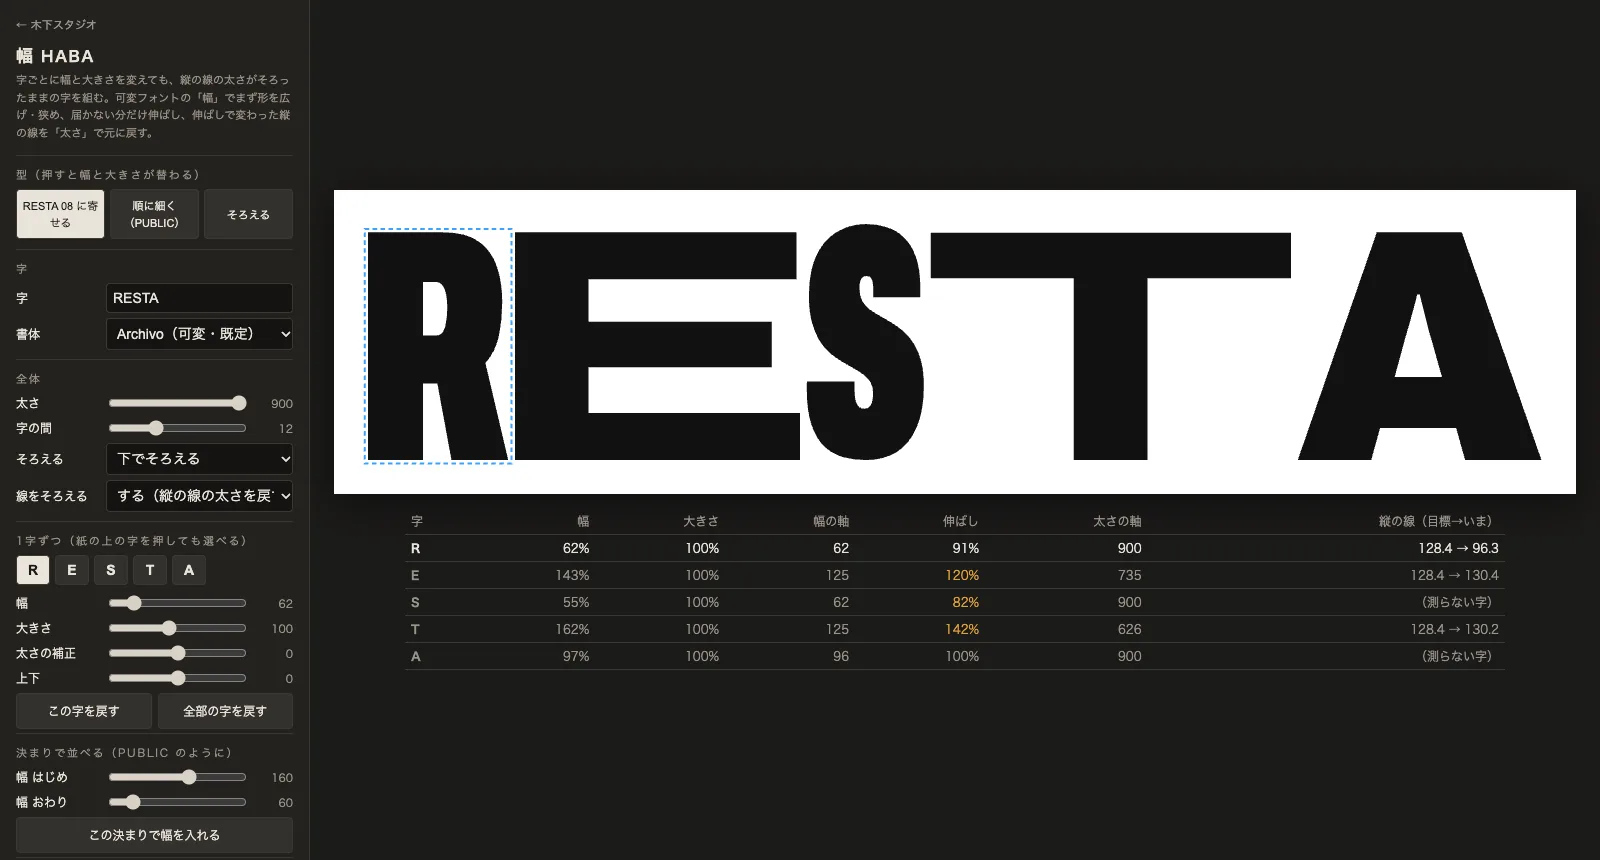
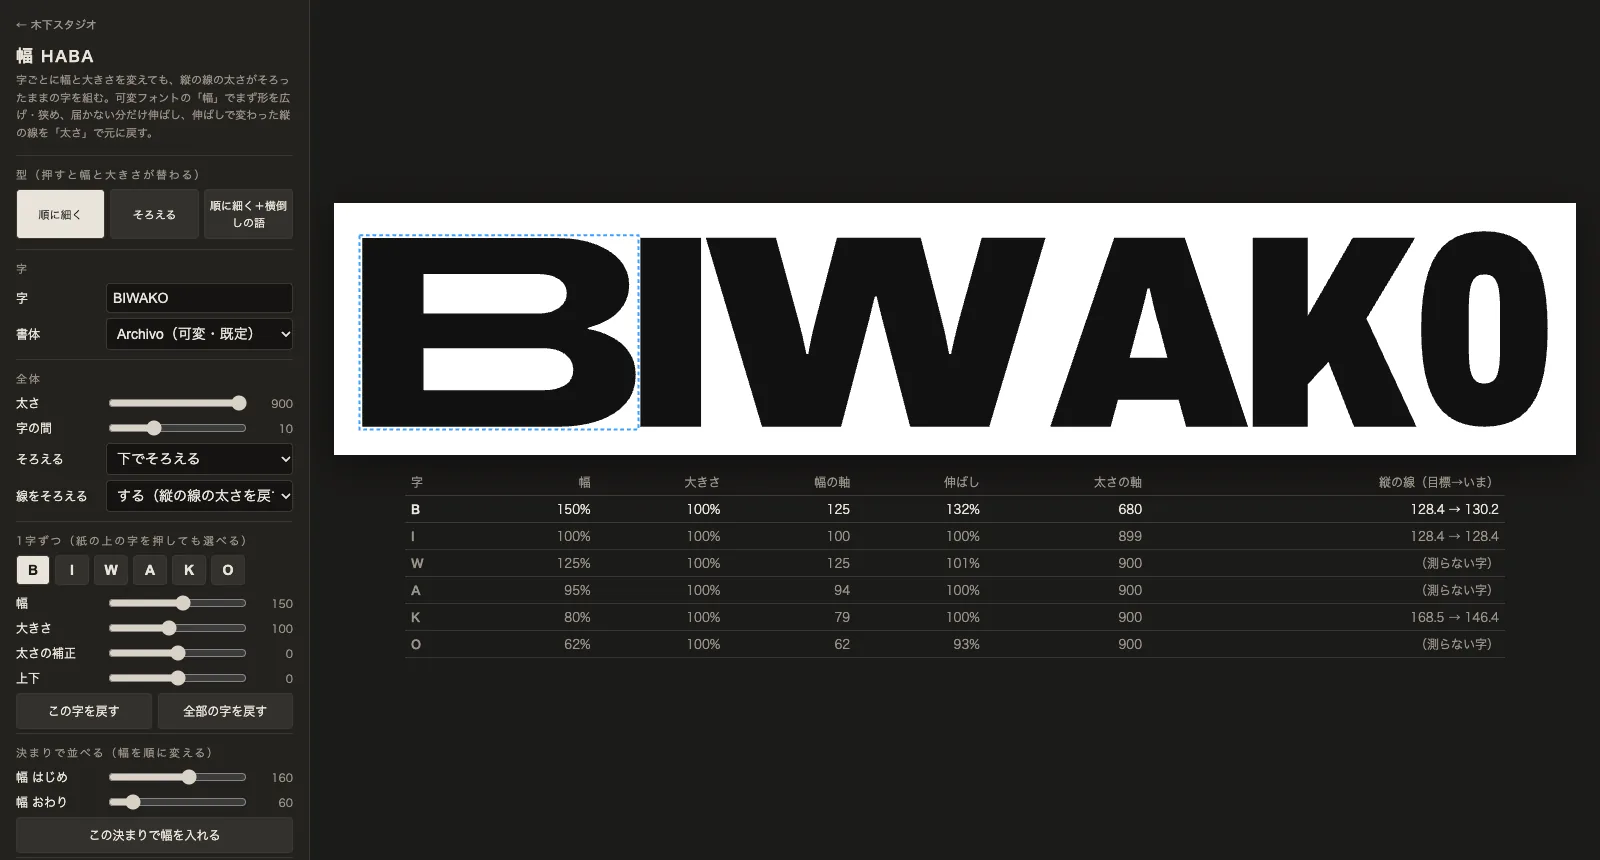
幅 HABA・裁 TACHI：サムネと既定の字を進行中の案件と関係のない字に（HABA＝BIWAKO・TACHI＝紙を／はさみで切る）／HABA に「外をそろえる」（横倒しの語・黒ベタの試験・ルール）を足す

diff --git a/haba/index.html b/haba/index.html
@@ -8,13 +8,12 @@
 <meta property="og:description" content="字ごとに幅を変えても、縦の線の太さがそろう。引き伸ばした字に見えない字を組む道具。">
 <meta property="og:url" content="https://kinoshita.studio/haba/">
 <meta property="og:image" content="https://kinoshita.studio/assets/img/img-ui-haba.webp">
-<!-- 2026-11-07 木下：RESTA のロゴ案（Archivo Black を字ごとに引き伸ばした帯）を「プロが見ても分からないレベルで」作字にしたい。
-     「パスを一個一個調整するのはハードルが高すぎる。スライダーで調整できるような道具は？」「道具作って」。
+<!-- 2026-11-07 木下：字ごとに幅を変えた組みを「パスを一個一個調整せず、スライダーで」作字の下書きにしたい。
      引き伸ばすと縦の線だけ太く（細く）なり、1語の中で線の太さがばらばらになる＝プロが一目で気づく所。
      仕組み：1 可変フォントの「幅」の軸で、まず形そのものを広げる・狭める
              2 軸で届かない分だけ伸ばす
              3 伸ばしで変わった縦の線の太さを、「太さ」の軸で元の太さへ戻す（測って合わせる）
-     書体の既定＝Archivo（可変・SIL OFL 1.1・OFL-Archivo.txt）。Archivo の 900 は Archivo Black とほぼ同じ形。 -->
+     書体の既定＝Archivo（可変・SIL OFL 1.1・OFL-Archivo.txt）。 -->
 <style>
 :root{--bg:#1b1a19;--panel:#24221f;--line:#3a3733;--tx:#e9e4da;--sub:#9a9388;--ac:#e9e4da;--warn:#e0a23a}
 *{box-sizing:border-box}
@@ -53,7 +52,7 @@ canvas#cv{touch-action:manipulation}
   <p class="lead">字ごとに幅と大きさを変えても、縦の線の太さがそろったままの字を組む。可変フォントの「幅」でまず形を広げ・狭め、届かない分だけ伸ばし、伸ばしで変わった縦の線を「太さ」で元に戻す。</p>
   <div class="grp"><div class="t">型（押すと幅と大きさが替わる）</div><div class="presets" id="presets"></div></div>
   <div class="grp"><div class="t">字</div>
-    <label>字<input type="text" id="txt" value="RESTA" style="grid-column:2/4"></label>
+    <label>字<input type="text" id="txt" value="BIWAKO" style="grid-column:2/4"></label>
     <label>書体<select id="font" style="grid-column:2/4"><option value="archivo">Archivo（可変・既定）</option><option value="file">書体を読む…</option></select></label>
     <input type="file" id="fontfile" accept=".ttf,.otf,.woff,.woff2" hidden>
   </div>
@@ -71,10 +70,16 @@ canvas#cv{touch-action:manipulation}
     <label>上下<input type="range" id="ly" min="-60" max="60" value="0"><span class="v"></span></label>
     <div class="row" style="margin-top:2px"><button id="lreset">この字を戻す</button><button id="allreset">全部の字を戻す</button></div>
   </div>
-  <div class="grp"><div class="t">決まりで並べる（PUBLIC のように）</div>
+  <div class="grp"><div class="t">決まりで並べる（幅を順に変える）</div>
     <label>幅 はじめ<input type="range" id="rw0" min="30" max="250" value="160"><span class="v"></span></label>
     <label>幅 おわり<input type="range" id="rw1" min="30" max="250" value="60"><span class="v"></span></label>
     <div class="row" style="margin-top:2px"><button id="rule">この決まりで幅を入れる</button></div>
+  </div>
+  <div class="grp"><div class="t">外をそろえる</div>
+    <label>横倒しの語<input type="text" id="side" value="" placeholder="例：SHIGA・2026・NO.1" style="grid-column:2/4"></label>
+    <label>置く場所<select id="sidePos" style="grid-column:2/4"><option value="left">左（読みのはじめ）</option><option value="right">右（読みのおわり）</option></select></label>
+    <div class="row" style="margin-top:2px"><button id="btest">黒ベタの試験（48・24・16px）</button></div>
+    <p class="lead" style="margin:8px 0 0">中はそろえない・外はそろえる。<br>① 幅と太さは字ごとにばらばらでいい。上と下の線はそろえる（「大きさ」は 100 のまま）<br>② 幅違いは伸ばさない＝この道具が縦の線を戻す。「伸ばし」が大きい字は作字で描き分ける<br>③ 読む順番は崩さない<br>④ 欠けた所は小さい語を横倒しにして閉じる（字の高さぴったりに伸び縮みする）<br>⑤ 黒1色・質感なしで、16px でもその会社だと分かるか<br>⑥ その形はブランドにとって本当か</p>
   </div>
   <div class="grp"><div class="t">色・地・下敷き</div>
     <label>字の色<input type="color" id="ink" value="#111111" style="grid-column:2/4;height:30px;padding:2px"></label>
@@ -89,7 +94,7 @@ canvas#cv{touch-action:manipulation}
   <p id="msg"></p>
   <p class="lead" style="margin-top:12px">字を横に伸ばすと縦の線だけ太くなり、狭めると細くなる。1語の中で縦の線の太さがばらばらだと、引き伸ばした字だと一目で分かる。HABA は、幅の軸で形を変え、届かない分だけ伸ばし、伸ばしで変わった縦の線の太さを測って、太さの軸で元の字の太さに戻す。下の表の「伸ばし」が大きい字ほど、幅の軸だけでは足りていない。比べるときは「線をそろえる：しない」に切り替える。いまのロゴの SVG を読むと、下敷きに敷いて重ねて見られる。</p>
 </div>
-<div id="stage"><canvas id="cv"></canvas><div id="info"></div></div>
+<div id="stage"><canvas id="cv"></canvas><div id="btestbox" style="display:none;width:100%;max-width:1100px;background:#fff;border-radius:4px;padding:12px 14px;color:#555;font-size:11px"></div><div id="info"></div></div>
 <script type="module">
 import * as fontkit from 'https://esm.sh/fontkit@2.0.4';
 const $=id=>document.getElementById(id);
@@ -97,7 +102,6 @@ const v=id=>+$(id).value;
 const cv=$('cv'),ctx=cv.getContext('2d');
 let FONT=null, FONTNAME='Archivo', AX={}, L=[], SEL=0, UNDER=null, LAST=null;
 const STEMMED=/[BDEFHIJKLMNPRTUbdhijklmnpqrtuＢ-Ｚ]/;   // 縦の線で太さを測れる字
-const M08=[0.62,1.43,0.55,1.62,0.97];                   // RESTA 08 の幅（いまの Archivo Black を伸ばした倍率）
 // ── 書体
 async function loadFont(buf,name){
   const f=fontkit.create(new Uint8Array(buf)); FONT=f; FONTNAME=name||f.familyName; AX=f.variationAxes||{}; CACHE.clear();
@@ -174,12 +178,27 @@ function layout(){
     items.push({ch:cs[i],r,sc,p,w:(r.g.bb.x1-r.g.bb.x0)*r.sx*sc,h:(r.g.bb.y1-r.g.bb.y0)*sc});
   }
   const gap=v('gap'), maxH=Math.max(...items.map(t=>t.h)), M=60;
-  let x=M; for(const t of items){t.x=x;x+=t.w+gap} const W=Math.ceil(x-gap+M), H=Math.ceil(maxH+2*M+120);
+  // 横倒しの語：字の高さ maxH ぴったりの長さにして、四角の欠けを閉じる。いちばん狭い幅・同じ太さ
+  const side=sideLayout(maxH), sidePos=$('sidePos').value;
+  let x=M; if(side&&sidePos==='left'){side.x=M;x=M+side.thick+gap}
+  for(const t of items){t.x=x;x+=t.w+gap}
+  if(side&&sidePos==='right'){side.x=x;x+=side.thick+gap}
+  const W=Math.ceil(x-gap+M), H=Math.ceil(maxH+2*M+120);
+  if(side)side.place(M,maxH);
   const al=$('align').value;
   for(const t of items){const top=al==='top'?M:al==='middle'?M+(maxH-t.h)/2:M+maxH-t.h; t.yTop=top-t.p.y*t.sc*2;
     const b=t.r.g.bb, sx=t.r.sx, sc=t.sc, X=t.x, Y=t.yTop;
     t.T=(px,py)=>[X+(px-b.x0)*sc*sx, Y+(b.y1-py)*sc]}
-  return {items,W,H:Math.ceil(maxH+2*M),maxH};
+  return {items,W,H:Math.ceil(maxH+2*M),maxH,side};
+}
+function sideLayout(maxH){
+  const cs=[...$('side').value].filter(c=>c!==' '); if(!cs.length||!FONT)return null;
+  const wt=v('wght'), wd=AX.wdth?AX.wdth.min:100, cap=(FONT.capHeight||700), sp=cap*0.06;
+  const gs=cs.map(ch=>glyph(ch,wt,wd)); let u=0; const at=[];
+  gs.forEach(g=>{at.push(u);u+=(g.bb.x1-g.bb.x0)+sp}); const len=u-sp, ss=maxH/len;
+  const o={gs,thick:cap*ss,x:0};
+  o.place=(M,mh)=>{o.T=gs.map((g,i)=>(px,py)=>[o.x+(cap-py)*ss, M+mh-(at[i]+(px-g.bb.x0))*ss])};   // 下から上へ読む
+  return o;
 }
 function draw(g,lay,q,paper,showUnder){
   g.setTransform(q,0,0,q,0,0); g.clearRect(0,0,lay.W,lay.H);
@@ -187,6 +206,7 @@ function draw(g,lay,q,paper,showUnder){
   if(showUnder&&UNDER&&v('uop')>0){g.globalAlpha=v('uop')/100;const M=60,w=lay.W-2*M,h=lay.maxH;g.drawImage(UNDER,M,M,w,h);g.globalAlpha=1}
   g.fillStyle=$('ink').value;
   for(const t of lay.items)g.fill(toPath(t.r.g.cmds,t.T),'nonzero');
+  if(lay.side)lay.side.gs.forEach((sg2,i)=>g.fill(toPath(sg2.cmds,lay.side.T[i]),'nonzero'));
 }
 let raf=0;
 function render(){cancelAnimationFrame(raf);raf=requestAnimationFrame(()=>{
@@ -200,6 +220,7 @@ function render(){cancelAnimationFrame(raf);raf=requestAnimationFrame(()=>{
   lay.items.forEach((t,i)=>{const r=t.r,ext=Math.abs(r.sx-1)>.15;
     h+=`<tr class="${i===SEL?'sel':''}"><td><b>${t.ch}</b></td><td>${t.p.w}%</td><td>${t.p.s}%</td><td>${AX.wdth?r.wd.toFixed(0):'—'}</td><td class="${ext?'w':''}">${(r.sx*100).toFixed(0)}%</td><td>${AX.wght?r.wt.toFixed(0):'—'}</td><td>${r.fix?`${(r.want*t.sc).toFixed(1)} → ${(r.stemNow*t.sc).toFixed(1)}`:'（測らない字）'}</td></tr>`});
   $('info').innerHTML=h+'</table>';
+  if($('btestbox').style.display==='block')blackTest();   // 試験を開いたままなら一緒に描き直す
   ['wght','gap','uop','lw','ls','lt','ly','rw0','rw1'].forEach(k=>{const e=$(k).parentElement.querySelector('.v');if(e)e.textContent=$(k).value});
   chipsRender();
 })}
@@ -213,21 +234,30 @@ $('allreset').onclick=()=>{L=L.map(()=>({w:100,s:100,t:0,y:0}));pick(SEL)};
 $('rule').onclick=()=>{ensureL();const n=L.length;L.forEach((p,i)=>p.w=Math.round(v('rw0')+(v('rw1')-v('rw0'))*(n>1?i/(n-1):0)));pick(SEL)};
 ['wght','gap','align','fix','ink','paper','uop','rw0','rw1'].forEach(k=>$(k).oninput=render);
 $('txt').oninput=()=>{ensureL();render()};
+$('side').oninput=render;$('sidePos').oninput=render;
+// 黒ベタの試験：字の色・地・下敷きを無視して、黒1色を白地に 48・24・16px で見る（もう一度押すと閉じる）
+function blackTest(){const box=$('btestbox');const lay=layout();if(!lay)return;
+  const q0=lay.maxH, out=[48,24,16].map(h=>{const q=h/(lay.maxH+120)*1.6, c=document.createElement('canvas'), d=devicePixelRatio||1;
+    const sc=h/q0; c.width=Math.ceil(lay.W*sc*d);c.height=Math.ceil(lay.H*sc*d);c.style.width=(lay.W*sc)+'px';c.style.height=(lay.H*sc)+'px';
+    const g=c.getContext('2d');const ink=$('ink').value;$('ink').value='#111111';draw(g,lay,sc*d,'#ffffff',false);$('ink').value=ink;return [h,c]});
+  box.innerHTML='';out.forEach(([h,c])=>{const w=document.createElement('div');w.style.cssText='display:inline-block;margin:0 18px 6px 0;vertical-align:bottom;text-align:center';w.appendChild(c);const l=document.createElement('div');l.textContent=`字の高さ ${h}px`;w.appendChild(l);box.appendChild(w)});
+  const n=document.createElement('div');n.style.marginTop='6px';n.textContent='素材と色をはがして黒1色。いちばん小さくても、この会社だと分かるか（横倒しの小さい語は小さい版では外してよい）';box.appendChild(n);box.style.display='block';msg('黒ベタの試験：黒1色・白地で 48・24・16px')}
+$('btest').onclick=()=>{const b=$('btestbox');if(b.style.display==='block'){b.style.display='none';return}blackTest()};
 // ── 型
 const PRESETS=[
-  {name:'RESTA 08 に寄せる',txt:'RESTA',w:M08.map(m=>Math.round(m*100)),s:[100,100,100,100,100],gap:12},
-  {name:'順に細く（PUBLIC）',txt:'RESTA',w:[150,125,100,80,62],s:[100,100,100,100,100],gap:10},
-  {name:'そろえる',txt:'RESTA',w:[100,100,100,100,100],s:[100,100,100,100,100],gap:20},
+  {name:'順に細く',txt:'BIWAKO',w:[150,100,125,95,80,62],s:[100,100,100,100,100,100],gap:10},
+  {name:'そろえる',txt:'BIWAKO',w:[100,100,100,100,100,100],s:[100,100,100,100,100,100],gap:20},
+  {name:'順に細く＋横倒しの語',txt:'BIWAKO',side:'SHIGA',w:[150,100,125,95,80,62],s:[100,100,100,100,100,100],gap:10},
 ];
 const pb=$('presets');PRESETS.forEach((p,i)=>{const b=document.createElement('button');b.textContent=p.name;b.onclick=()=>{
   pb.querySelectorAll('button').forEach(x=>x.classList.remove('on'));b.classList.add('on');
-  $('txt').value=p.txt;$('gap').value=p.gap;L=p.w.map((w,j)=>({w,s:p.s[j]||100,t:0,y:0}));pick(0)};pb.appendChild(b)});
+  $('txt').value=p.txt;$('gap').value=p.gap;$('side').value=p.side||'';L=p.w.map((w,j)=>({w,s:p.s[j]||100,t:0,y:0}));pick(0)};pb.appendChild(b)});
 // ── 書体を読む
 $('font').onchange=()=>{if($('font').value==='file')$('fontfile').click();else fetch('Archivo-VF.ttf').then(r=>r.arrayBuffer()).then(b=>loadFont(b,'Archivo'))};
 $('fontfile').onchange=e=>{const f=e.target.files[0];if(!f){$('font').value='archivo';return}f.arrayBuffer().then(b=>loadFont(b,f.name.replace(/\.\w+$/,''))).catch(()=>alert('この書体は読めませんでした'));e.target.value=''};
 // ── 書き出し
-function settings(){return{tool:'haba',v:1,txt:$('txt').value,font:FONTNAME,wght:v('wght'),gap:v('gap'),align:$('align').value,fix:$('fix').value,ink:$('ink').value,paper:$('paper').value,L}}
-function apply(s){['txt','wght','gap','align','fix','ink','paper'].forEach(k=>{if(s[k]!=null)$(k).value=s[k]});L=(s.L||[]).map(p=>({w:p.w??100,s:p.s??100,t:p.t??0,y:p.y??0}));pick(0)}
+function settings(){return{tool:'haba',v:1,txt:$('txt').value,side:$('side').value,sidePos:$('sidePos').value,font:FONTNAME,wght:v('wght'),gap:v('gap'),align:$('align').value,fix:$('fix').value,ink:$('ink').value,paper:$('paper').value,L}}
+function apply(s){['txt','side','sidePos','wght','gap','align','fix','ink','paper'].forEach(k=>{if(s[k]!=null)$(k).value=s[k]});L=(s.L||[]).map(p=>({w:p.w??100,s:p.s??100,t:p.t??0,y:p.y??0}));pick(0)}
 function stamp(){const d=new Date(),p=n=>String(n).padStart(2,'0');return`${d.getFullYear()}${p(d.getMonth()+1)}${p(d.getDate())}-${p(d.getHours())}${p(d.getMinutes())}`}
 const fname=ext=>`haba_${$('txt').value.replace(/[\\/:*?"<>|\s]/g,'').slice(0,20)}_${stamp()}.${ext}`;
 function save(blob,name){const u=URL.createObjectURL(blob),a=document.createElement('a');a.href=u;a.download=name;document.body.appendChild(a);a.click();setTimeout(()=>{URL.revokeObjectURL(u);a.remove()},8000)}
@@ -235,7 +265,7 @@ function msg(t){$('msg').textContent=t}
 $('png').onclick=()=>{const lay=layout();if(!lay)return;const c=document.createElement('canvas');c.width=lay.W*2;c.height=lay.H*2;draw(c.getContext('2d'),lay,2,$('paper').value,false);c.toBlob(b=>{save(b,fname('png'));msg(`PNG を書き出した（${lay.W*2}×${lay.H*2}）`)},'image/png')};
 function svgText(){const lay=layout(),pp=$('paper').value;let s=`<?xml version="1.0" encoding="UTF-8"?>\n<svg xmlns="http://www.w3.org/2000/svg" width="${lay.W}" height="${lay.H}" viewBox="0 0 ${lay.W} ${lay.H}">\n<metadata id="haba-data">${JSON.stringify(settings()).replace(/&/g,'&amp;').replace(/</g,'&lt;')}</metadata>\n`;
   if(pp!=='none')s+=`<rect id="地" width="${lay.W}" height="${lay.H}" fill="${pp}"/>\n`;
-  s+=`<g id="字" fill="${$('ink').value}">\n`+lay.items.map((t,i)=>`<path id="${i+1}_${t.ch}" d="${toD(t.r.g.cmds,t.T)}"/>`).join('\n')+'\n</g>\n</svg>\n';return s}
+  s+=`<g id="字" fill="${$('ink').value}">\n`+lay.items.map((t,i)=>`<path id="${i+1}_${t.ch}" d="${toD(t.r.g.cmds,t.T)}"/>`).join('\n')+(lay.side?'\n'+lay.side.gs.map((g,i)=>`<path id="横倒し_${i+1}" d="${toD(g.cmds,lay.side.T[i])}"/>`).join('\n'):'')+'\n</g>\n</svg>\n';return s}
 $('svg').onclick=()=>{save(new Blob([svgText()],{type:'image/svg+xml'}),fname('svg'));msg('SVG を書き出した（1字1パス・HABA で読むと設定に戻る）')};
 $('jsave').onclick=()=>save(new Blob([JSON.stringify(settings(),null,1)],{type:'application/json'}),fname('json'));
 $('jload').onclick=()=>$('jfile').click();
@@ -250,8 +280,8 @@ $('svgfile').onchange=e=>{const f=e.target.files[0];if(!f)return;f.text().then(t
   img.onload=()=>{UNDER=img;msg('下敷きに敷いた（濃さは「下敷きの濃さ」）。幅の箱に合わせて伸ばして重ねている');render()};
   img.onerror=()=>alert('この SVG は読めませんでした');img.src=u});e.target.value=''};
 window.addEventListener('resize',render);
-window.__haba={render,layout,settings,apply,svgText,get L(){return L},solve};
-// はじまり：RESTA 08 に寄せる
+window.__haba={render,layout,settings,apply,svgText,get L(){return L},solve,blackTest};
+// はじまり：最初の型
 fetch('Archivo-VF.ttf').then(r=>r.arrayBuffer()).then(b=>loadFont(b,'Archivo')).then(()=>pb.querySelector('button').click()).catch(()=>msg('書体を読めませんでした'));
 </script>
 <!-- ══════════════════════════════════════════════════════════════

diff --git a/tachi/index.html b/tachi/index.html
@@ -10,9 +10,9 @@
 <meta property="og:image" content="https://kinoshita.studio/assets/img/img-ui-tachi.webp">
 <link rel="preconnect" href="https://fonts.googleapis.com"><link rel="preconnect" href="https://fonts.gstatic.com" crossorigin>
 <link href="https://fonts.googleapis.com/css2?family=Zen+Kaku+Gothic+New:wght@500;700;900&display=swap" rel="stylesheet">
-<!-- 2026-11-06 木下：パリのレーベルに「60年代末〜70年代はじめの字に合わせて描けるか」と聞かれ、参考の映画ポスター（1970 日活）の題字に寄せた試し描きを Python で作った
-     →「今回の出してもらったの道具として作ろうかな？」「それでいこう」。
-     仕組み（Python の nora.py と同じ）：
+<!-- 2026-11-06 木下：60年代末〜70年代はじめの日本映画のポスターの題字のような、紙を鋏で裁った字を Python で試し描きした
+     →「道具として作ろうかな？」「それでいこう」。
+     仕組み（Python 版と同じ）：
        1. 書体で字を描き、縁を太らせる（漢字は中の空きが潰れないよう別の太さ）
        2. 字の縁を画素の境でたどって輪郭にする
        3. 輪郭を少ない点の直線でなぞり直す（＝鋏で裁った角）→ 点をゆらす（＝手で裁ったゆれ）
@@ -58,8 +58,8 @@ canvas#cv{touch-action:none}
     <div class="presets" id="presets"></div>
   </div>
   <div class="grp"><div class="t">字</div>
-    <label>小さい字<input type="text" id="small" value="私達は" style="grid-column:2/4"></label>
-    <label>大きい字<input type="text" id="big" value="音楽が欲しい" style="grid-column:2/4"></label>
+    <label>小さい字<input type="text" id="small" value="紙を" style="grid-column:2/4"></label>
+    <label>大きい字<input type="text" id="big" value="はさみで切る" style="grid-column:2/4"></label>
   </div>
   <div class="grp"><div class="t">組む</div>
     <label>紙の形<select id="ratio" style="grid-column:2/4"><option value="2:3">縦長 2:3</option><option value="1:1">正方形 1:1</option><option value="3:2">横長 3:2</option></select></label>
@@ -246,8 +246,8 @@ K.forEach(k=>$(k).oninput=render);['ratio','ink','paper'].forEach(k=>$(k).oninpu
 
 // ── 型
 const PRESETS=[
-  {name:'音楽が欲しい',small:'私達は',big:'音楽が欲しい',ratio:'2:3',k:{ssize:43,flow:23,lead:84,sx:105,sy:-48,vary:10,rot:6,rise:9,thick:7,thickK:3,cut:13,jit:10,seed:7}},
-  {name:'サウンズ',small:'ウィー・ウォント',big:'サウンズ',ratio:'1:1',k:{ssize:29,flow:30,lead:80,sx:105,sy:-45,vary:8,rot:7,rise:9,thick:7,thickK:3,cut:13,jit:12,seed:7}},
+  {name:'はさみで切る',small:'紙を',big:'はさみで切る',ratio:'2:3',k:{ssize:43,flow:23,lead:84,sx:105,sy:-48,vary:10,rot:6,rise:9,thick:7,thickK:3,cut:13,jit:10,seed:7}},
+  {name:'向こう岸',small:'湖の',big:'向こう岸',ratio:'1:1',k:{ssize:29,flow:30,lead:80,sx:105,sy:-45,vary:8,rot:7,rise:9,thick:7,thickK:3,cut:13,jit:12,seed:7}},
   {name:'真夜中のブルース',small:'真夜中の',big:'ブルース',ratio:'2:3',k:{ssize:34,flow:-18,lead:86,sx:-95,sy:-40,vary:14,rot:9,rise:12,thick:9,thickK:3,cut:18,jit:14,seed:21}},
 ];
 const pb=$('presets');PRESETS.forEach((p,i)=>{const b=document.createElement('button');b.textContent=p.name;b.onclick=()=>{
@@ -292,7 +292,7 @@ window.__tachi={render,settings,applySettings,layout,svgText,get items(){return 
 pb.querySelector('button').classList.add('on');
 // 書体を読んでから描く（読む前に描いた輪郭は捨てる）
 render();
-Promise.all([document.fonts.load(`900 100px "Zen Kaku Gothic New"`,'音楽が欲しいサウンズ'),document.fonts.load(`700 100px "Zen Kaku Gothic New"`,'私達音楽欲')]).then(()=>{for(const k in CACHE)delete CACHE[k];render()}).catch(()=>{});
+Promise.all([document.fonts.load(`900 100px "Zen Kaku Gothic New"`,'はさみで切る向こう岸真夜中のブルース'),document.fonts.load(`700 100px "Zen Kaku Gothic New"`,'紙を湖の真夜中')]).then(()=>{for(const k in CACHE)delete CACHE[k];render()}).catch(()=>{});
 document.fonts.addEventListener&&document.fonts.addEventListener('loadingdone',()=>{for(const k in CACHE)delete CACHE[k];render()});
 </script>
 <!-- ══════════════════════════════════════════════════════════════
